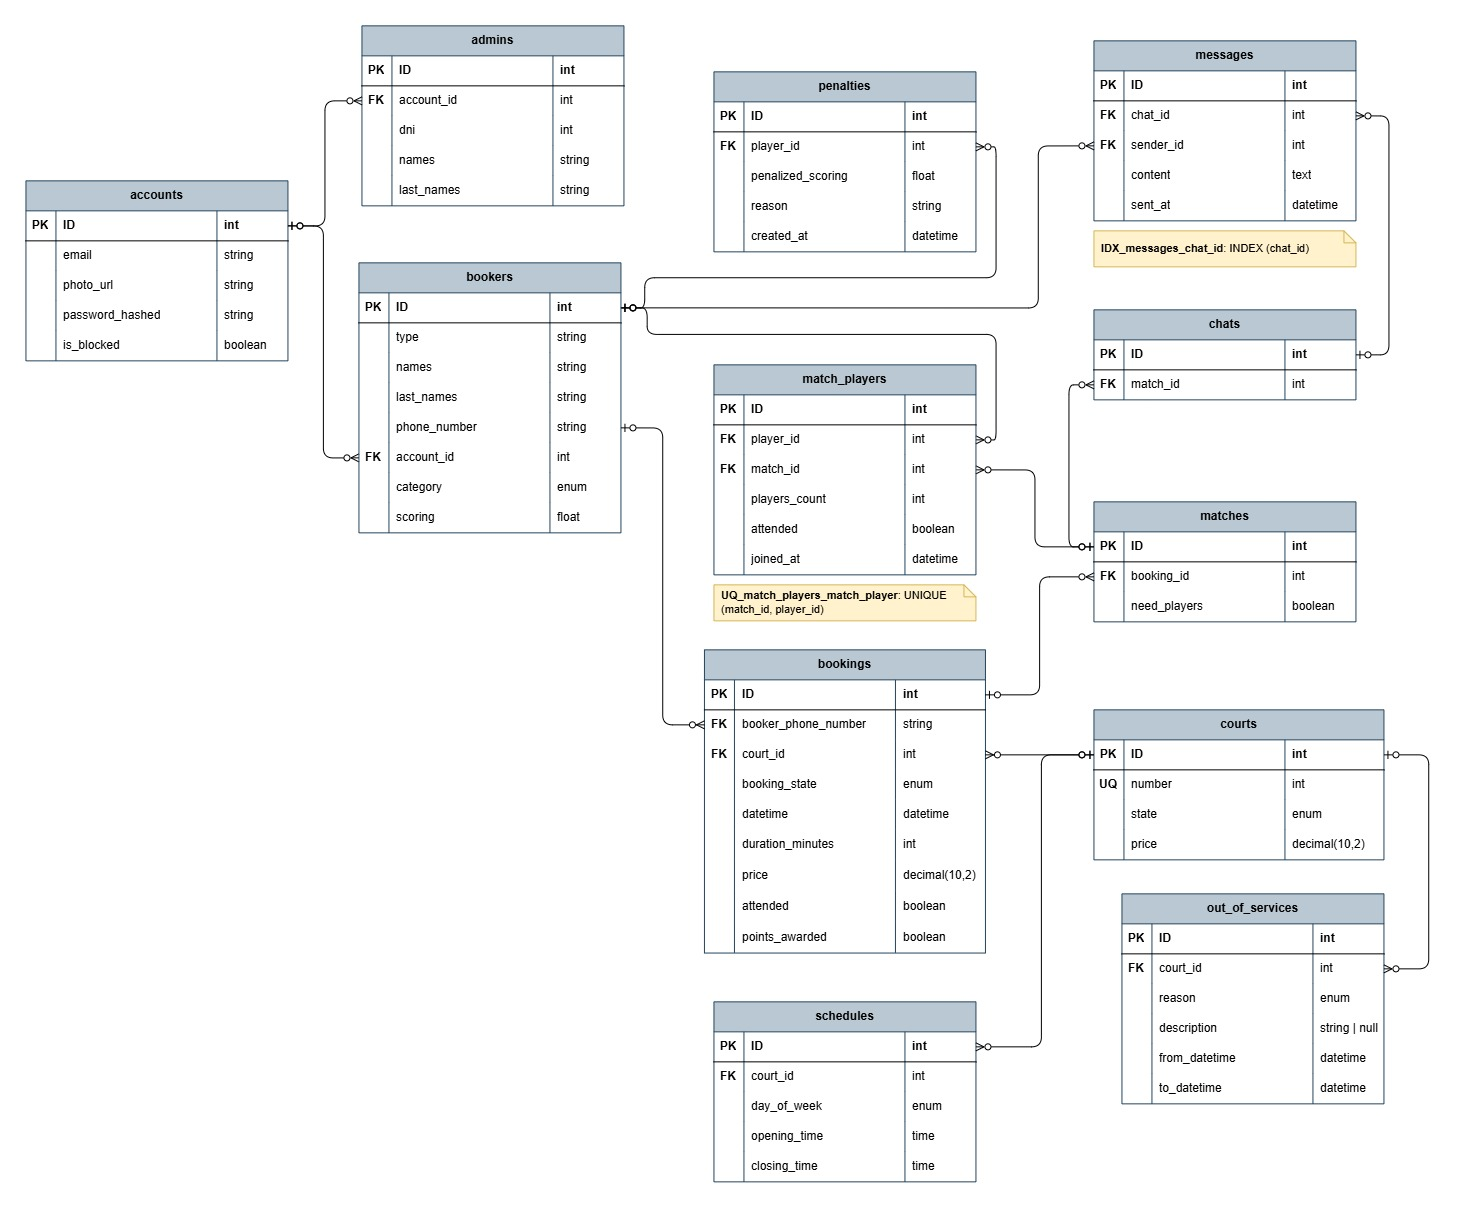
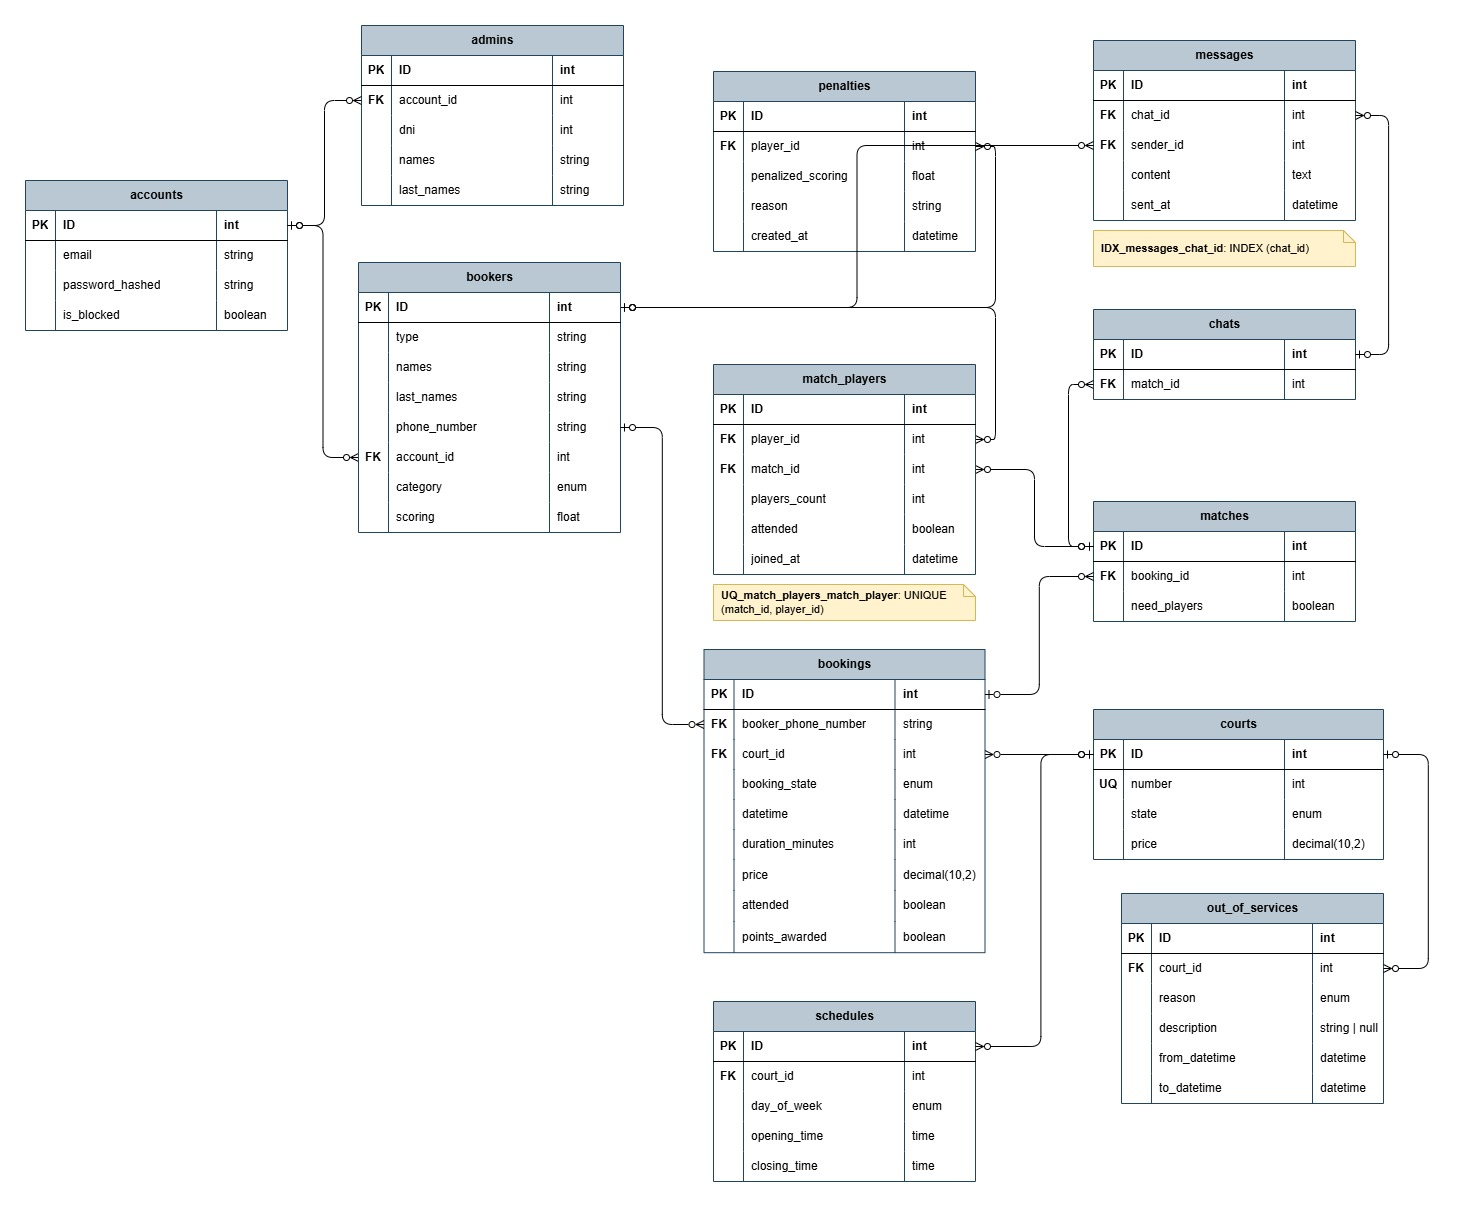
feat: delete photo url

diff --git a/app/profile/profile-form.tsx b/app/profile/profile-form.tsx
@@ -10,7 +10,6 @@ interface ProfileFormProps {
     names: string;
     lastnames: string;
     category: string;
-    photoUrl: string | null;
   };
 }
 
@@ -22,7 +21,6 @@ export function ProfileForm({ initialData }: ProfileFormProps) {
   const [names, setNames] = useState(initialData.names);
   const [lastnames, setLastnames] = useState(initialData.lastnames);
   const [category, setCategory] = useState(initialData.category);
-  const [photoUrl, setPhotoUrl] = useState(initialData.photoUrl ?? "");
 
   const initials = `${names[0] ?? ""}${lastnames[0] ?? ""}`.toUpperCase() || "J";
 
@@ -32,21 +30,8 @@ export function ProfileForm({ initialData }: ProfileFormProps) {
 
       {state?.message && !state.success && <div className="alert-error">{state.message}</div>}
 
-      {/* Avatar Preview */}
       <div className="flex items-center gap-4 rounded-xl bg-background p-4">
-        <div className="relative flex h-14 w-14 shrink-0 items-center justify-center overflow-hidden rounded-full bg-ink">
-          {photoUrl.trim() ? (
-            // eslint-disable-next-line @next/next/no-img-element
-            <img
-              src={photoUrl}
-              alt="Avatar de perfil"
-              className="absolute inset-0 h-full w-full object-cover"
-              onError={(e) => {
-                // If image fails to load, clear image to show fallback initials
-                (e.target as HTMLImageElement).style.display = "none";
-              }}
-            />
-          ) : null}
+        <div className="flex h-14 w-14 shrink-0 items-center justify-center rounded-full bg-ink">
           <span className="text-lg font-bold text-white">{initials}</span>
         </div>
         <div>
@@ -117,22 +102,6 @@ export function ProfileForm({ initialData }: ProfileFormProps) {
             ))}
           </select>
           {state?.errors?.category && <p className="mt-1 text-xs text-danger">{state.errors.category}</p>}
-        </div>
-
-        <div>
-          <label htmlFor="photoUrl" className="field-label">
-            URL de foto de perfil
-          </label>
-          <input
-            id="photoUrl"
-            name="photoUrl"
-            type="text"
-            value={photoUrl}
-            onChange={(e) => setPhotoUrl(e.target.value)}
-            className="field"
-            placeholder="https://ejemplo.com/mi-foto.jpg"
-          />
-          {state?.errors?.photoUrl && <p className="mt-1 text-xs text-danger">{state.errors.photoUrl}</p>}
         </div>
       </div>
 

diff --git a/src/actions/profile.ts b/src/actions/profile.ts
@@ -5,7 +5,6 @@ import { getServerSession } from "next-auth/next";
 import { revalidatePath } from "next/cache";
 import { authOptions } from "@/src/lib/auth";
 import { getDataSource } from "@/src/lib/db";
-import { Account } from "@/src/entities/Account";
 import { Player } from "@/src/entities/Player";
 import { Penalty } from "@/src/entities/Penalty";
 import {
@@ -27,7 +26,6 @@ export type PlayerProfileData = {
   phoneNumber: string;
   category: string;
   scoring: number;
-  photoUrl: string | null;
   isBlocked: boolean;
   movements: Array<{
     id: number;
@@ -75,7 +73,6 @@ export async function getProfileData(userEmail: string): Promise<PlayerProfileDa
     phoneNumber: player.phoneNumber,
     category: player.category,
     scoring: netScoring,
-    photoUrl: player.account.photoUrl,
     isBlocked: player.account.isBlocked,
     movements: penalties.map((p) => ({
       id: p.id,
@@ -101,7 +98,7 @@ export async function updatePlayerProfile(
     return { errors: parsed.errors };
   }
 
-  const { names, lastnames, category, photoUrl } = parsed.data;
+  const { names, lastnames, category } = parsed.data;
 
   try {
     const dataSource = await getDataSource();
@@ -115,11 +112,7 @@ export async function updatePlayerProfile(
       return { message: "No se encontró el perfil de jugador." };
     }
 
-    // La foto vive en la cuenta; nombre, apellido y categoría en el jugador.
-    await dataSource.transaction(async (manager) => {
-      await manager.getRepository<Account>("Account").update(player.account.id, { photoUrl });
-      await manager.getRepository<Player>("Player").update(player.id, { names, lastnames, category });
-    });
+    await playerRepo.update(player.id, { names, lastnames, category });
     console.log(`[Profile] Perfil actualizado exitosamente para: ${session.user.email}`);
 
     revalidatePath("/profile");

diff --git a/test/unit/profile-validation.test.ts b/test/unit/profile-validation.test.ts
@@ -7,9 +7,6 @@ function buildProfileFormData(overrides: Record<string, string> = {}) {
   formData.set("names", overrides.names ?? "Carlos");
   formData.set("lastnames", overrides.lastnames ?? "Perez");
   formData.set("category", overrides.category ?? PlayerCategory.FIFTH);
-  if (overrides.photoUrl !== undefined) {
-    formData.set("photoUrl", overrides.photoUrl);
-  }
   return formData;
 }
 
@@ -19,7 +16,6 @@ describe("parseProfileForm", () => {
       names: "Carlos",
       lastnames: "Perez",
       category: PlayerCategory.THIRD,
-      photoUrl: "https://example.com/avatar.jpg",
     });
 
     const result = parseProfileForm(formData);
@@ -28,7 +24,6 @@ describe("parseProfileForm", () => {
       names: "Carlos",
       lastnames: "Perez",
       category: PlayerCategory.THIRD,
-      photoUrl: "https://example.com/avatar.jpg",
     });
   });
 
@@ -53,19 +48,13 @@ describe("parseProfileForm", () => {
     expect(result.errors?.category).toBe("Categoría inválida.");
   });
 
-  it("acepta URL de foto vacía o nula", () => {
-    const formData = buildProfileFormData({ photoUrl: "" });
+  it("ignora la foto de perfil: ya no forma parte del perfil", () => {
+    const formData = buildProfileFormData();
+    formData.set("photoUrl", "https://example.com/avatar.jpg");
     const result = parseProfileForm(formData);
 
     expect(result.errors).toBeUndefined();
-    expect(result.data?.photoUrl).toBeNull();
-  });
-
-  it("rechaza URL de foto sin esquema válido", () => {
-    const formData = buildProfileFormData({ photoUrl: "invalid-url-path" });
-    const result = parseProfileForm(formData);
-
-    expect(result.errors?.photoUrl).toBe("La URL de la foto debe comenzar con http://, https:// o /");
+    expect(result.data).not.toHaveProperty("photoUrl");
   });
 });
 

diff --git a/src/lib/profile-validation.ts b/src/lib/profile-validation.ts
@@ -4,14 +4,12 @@ export type ProfileFormValues = {
   names: string;
   lastnames: string;
   category: PlayerCategory;
-  photoUrl: string | null;
 };
 
 export type ProfileFieldErrors = {
   names?: string;
   lastnames?: string;
   category?: string;
-  photoUrl?: string;
 };
 
 export type ProfileValidationResult = {
@@ -25,7 +23,6 @@ export function parseProfileForm(formData: FormData): ProfileValidationResult {
   const names = (formData.get("names") as string)?.trim() ?? "";
   const lastnames = (formData.get("lastnames") as string)?.trim() ?? "";
   const categoryRaw = (formData.get("category") as string)?.trim() ?? "";
-  const photoUrlRaw = (formData.get("photoUrl") as string)?.trim() ?? "";
 
   const errors: ProfileFieldErrors = {};
 
@@ -45,20 +42,6 @@ export function parseProfileForm(formData: FormData): ProfileValidationResult {
     errors.category = "Categoría inválida.";
   }
 
-  let photoUrl: string | null = null;
-  if (photoUrlRaw) {
-    try {
-      // Validate string URL or relative path
-      if (!photoUrlRaw.startsWith("http://") && !photoUrlRaw.startsWith("https://") && !photoUrlRaw.startsWith("/")) {
-        errors.photoUrl = "La URL de la foto debe comenzar con http://, https:// o /";
-      } else {
-        photoUrl = photoUrlRaw;
-      }
-    } catch {
-      errors.photoUrl = "URL de foto inválida.";
-    }
-  }
-
   if (Object.keys(errors).length > 0) {
     return { errors };
   }
@@ -68,7 +51,6 @@ export function parseProfileForm(formData: FormData): ProfileValidationResult {
       names,
       lastnames,
       category: categoryRaw as PlayerCategory,
-      photoUrl,
     },
   };
 }

diff --git a/src/actions/admin.ts b/src/actions/admin.ts
@@ -14,7 +14,6 @@ export type CreateAdminInput = {
   names: string;
   lastnames: string;
   dni?: number | null;
-  photoUrl?: string | null;
 };
 
 export type UpdateAdminInput = Partial<Omit<CreateAdminInput, "password">> & {
@@ -37,7 +36,6 @@ export async function createAdmin(
         accounts.create({
           email: input.email,
           passwordHash,
-          photoUrl: input.photoUrl ?? null,
         }),
       );
       return admins.save(
@@ -101,10 +99,9 @@ export async function updateAdmin(
         return null;
       }
 
-      const { email, password, photoUrl, names, lastnames, dni } = input;
+      const { email, password, names, lastnames, dni } = input;
 
       if (email !== undefined) admin.account.email = email;
-      if (photoUrl !== undefined) admin.account.photoUrl = photoUrl;
       if (password) admin.account.passwordHash = await bcrypt.hash(password, 12);
       if (names !== undefined) admin.names = names;
       if (lastnames !== undefined) admin.lastnames = lastnames;

diff --git a/src/actions/player.ts b/src/actions/player.ts
@@ -19,7 +19,6 @@ export type CreatePlayerInput = {
   names: string;
   lastnames: string;
   phoneNumber: string;
-  photoUrl?: string | null;
   category?: PlayerCategory;
 };
 
@@ -48,7 +47,6 @@ export async function createPlayer(
         accounts.create({
           email: input.email,
           passwordHash,
-          photoUrl: input.photoUrl ?? null,
         }),
       );
       return players.save(
@@ -114,10 +112,9 @@ export async function updatePlayer(
         return null;
       }
 
-      const { email, password, photoUrl, names, lastnames, phoneNumber, category } = input;
+      const { email, password, names, lastnames, phoneNumber, category } = input;
 
       if (email !== undefined) player.account.email = email;
-      if (photoUrl !== undefined) player.account.photoUrl = photoUrl;
       if (password) player.account.passwordHash = await bcrypt.hash(password, 12);
       if (names !== undefined) player.names = names;
       if (lastnames !== undefined) player.lastnames = lastnames;

diff --git a/test/integration/profile.integration.test.ts b/test/integration/profile.integration.test.ts
@@ -84,7 +84,6 @@ describe("Profile Server Actions & Points (Integración Postgres)", () => {
     formData.set("names", "Esteban Modificado");
     formData.set("lastnames", "Quito Nuevo");
     formData.set("category", PlayerCategory.THIRD);
-    formData.set("photoUrl", "https://ejemplo.com/foto.png");
 
     const result = await updatePlayerProfile(initialState, formData);
 
@@ -102,7 +101,6 @@ describe("Profile Server Actions & Points (Integración Postgres)", () => {
     expect(updated?.names).toBe("Esteban Modificado");
     expect(updated?.lastnames).toBe("Quito Nuevo");
     expect(updated?.category).toBe(PlayerCategory.THIRD);
-    expect(updated?.account.photoUrl).toBe("https://ejemplo.com/foto.png");
   });
 
   it("registra movimientos de bonificación y penalización y calcula el saldo neto en solo lectura", async () => {

diff --git a/test/unit/edit-profile-modal.test.tsx b/test/unit/edit-profile-modal.test.tsx
@@ -6,7 +6,7 @@ vi.mock("@/src/actions/profile", () => ({ updatePlayerProfile: vi.fn() }));
 
 import { EditProfileModal } from "@/app/profile/edit-profile-modal";
 
-const initialData = { names: "Juan", lastnames: "Pérez", category: "FOURTH", photoUrl: null };
+const initialData = { names: "Juan", lastnames: "Pérez", category: "FOURTH" };
 
 describe("EditProfileModal", () => {
   afterEach(() => {
@@ -23,6 +23,8 @@ describe("EditProfileModal", () => {
     const dialog = screen.getByRole("dialog", { name: "Información personal" });
     expect(dialog).toBeTruthy();
     expect((screen.getByLabelText("Nombre") as HTMLInputElement).value).toBe("Juan");
+    expect(screen.queryByLabelText(/foto de perfil/i)).toBeNull();
+    expect(dialog.querySelector("img")).toBeNull();
   });
 
   it("se cierra con el botón de cerrar", () => {

diff --git a/test/unit/player.test.ts b/test/unit/player.test.ts
@@ -54,7 +54,7 @@ function storedPlayer() {
     phoneNumber: "2215550101",
     category: PlayerCategory.WITHOUT_CATEGORY,
     scoring: 0,
-    account: { id: 10, email: "ana@test.com", passwordHash: "old-hash", photoUrl: null, isBlocked: false },
+    account: { id: 10, email: "ana@test.com", passwordHash: "old-hash", isBlocked: false },
   };
 }
 
@@ -76,7 +76,6 @@ describe("player actions", () => {
       expect(repos.Account.create).toHaveBeenCalledWith({
         email: "ana@test.com",
         passwordHash: "hashed-password",
-        photoUrl: null,
       });
       expect(repos.Player.create).toHaveBeenCalledWith({
         account: expect.objectContaining({ email: "ana@test.com" }),

diff --git a/test/integration/schema.integration.test.ts b/test/integration/schema.integration.test.ts
@@ -21,8 +21,9 @@ describe("schema alineado con el DER (integración con Postgres real)", () => {
 
   it("las cuentas se dividen en accounts, admins y bookers (Player hereda de Booker), y ya no existen users ni players", async () => {
     expect(await columnsOf("accounts")).toEqual(
-      expect.arrayContaining(["id", "email", "photo_url", "password_hashed", "is_blocked"]),
+      expect.arrayContaining(["id", "email", "password_hashed", "is_blocked"]),
     );
+    expect(await columnsOf("accounts")).not.toContain("photo_url");
     expect(await columnsOf("admins")).toEqual(
       expect.arrayContaining(["id", "account_id", "dni", "names", "last_names"]),
     );

diff --git a/test/unit/admin.test.ts b/test/unit/admin.test.ts
@@ -38,7 +38,7 @@ function storedAdmin() {
     names: "Admin",
     lastnames: "Uno",
     dni: null,
-    account: { id: 10, email: "admin@test.com", passwordHash: "old-hash", photoUrl: null, isBlocked: false },
+    account: { id: 10, email: "admin@test.com", passwordHash: "old-hash", isBlocked: false },
   };
 }
 
@@ -60,7 +60,6 @@ describe("admin actions", () => {
       expect(repos.Account.create).toHaveBeenCalledWith({
         email: "admin@test.com",
         passwordHash: "hashed-password",
-        photoUrl: null,
       });
       expect(repos.Admin.create).toHaveBeenCalledWith({
         account: expect.objectContaining({ email: "admin@test.com" }),

diff --git a/src/migrations/1791746574003-RemovePhotoUrlFromAccounts.ts b/src/migrations/1791746574003-RemovePhotoUrlFromAccounts.ts
@@ -1,0 +1,13 @@
+import { MigrationInterface, QueryRunner } from "typeorm";
+
+export class RemovePhotoUrlFromAccounts1791746574003 implements MigrationInterface {
+  name = "RemovePhotoUrlFromAccounts1791746574003";
+
+  public async up(queryRunner: QueryRunner): Promise<void> {
+    await queryRunner.query(`ALTER TABLE "accounts" DROP COLUMN "photo_url"`);
+  }
+
+  public async down(queryRunner: QueryRunner): Promise<void> {
+    await queryRunner.query(`ALTER TABLE "accounts" ADD "photo_url" character varying`);
+  }
+}
